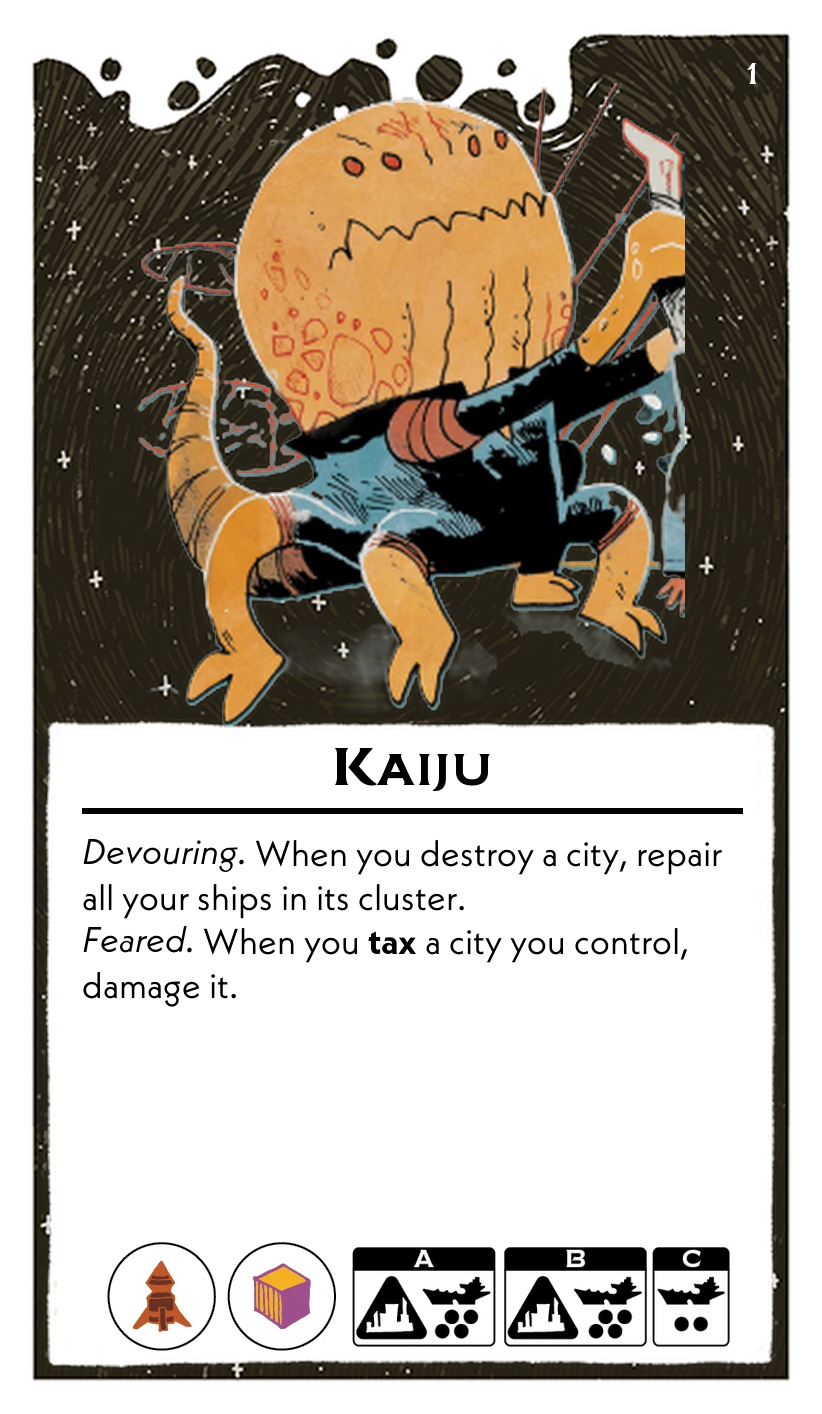
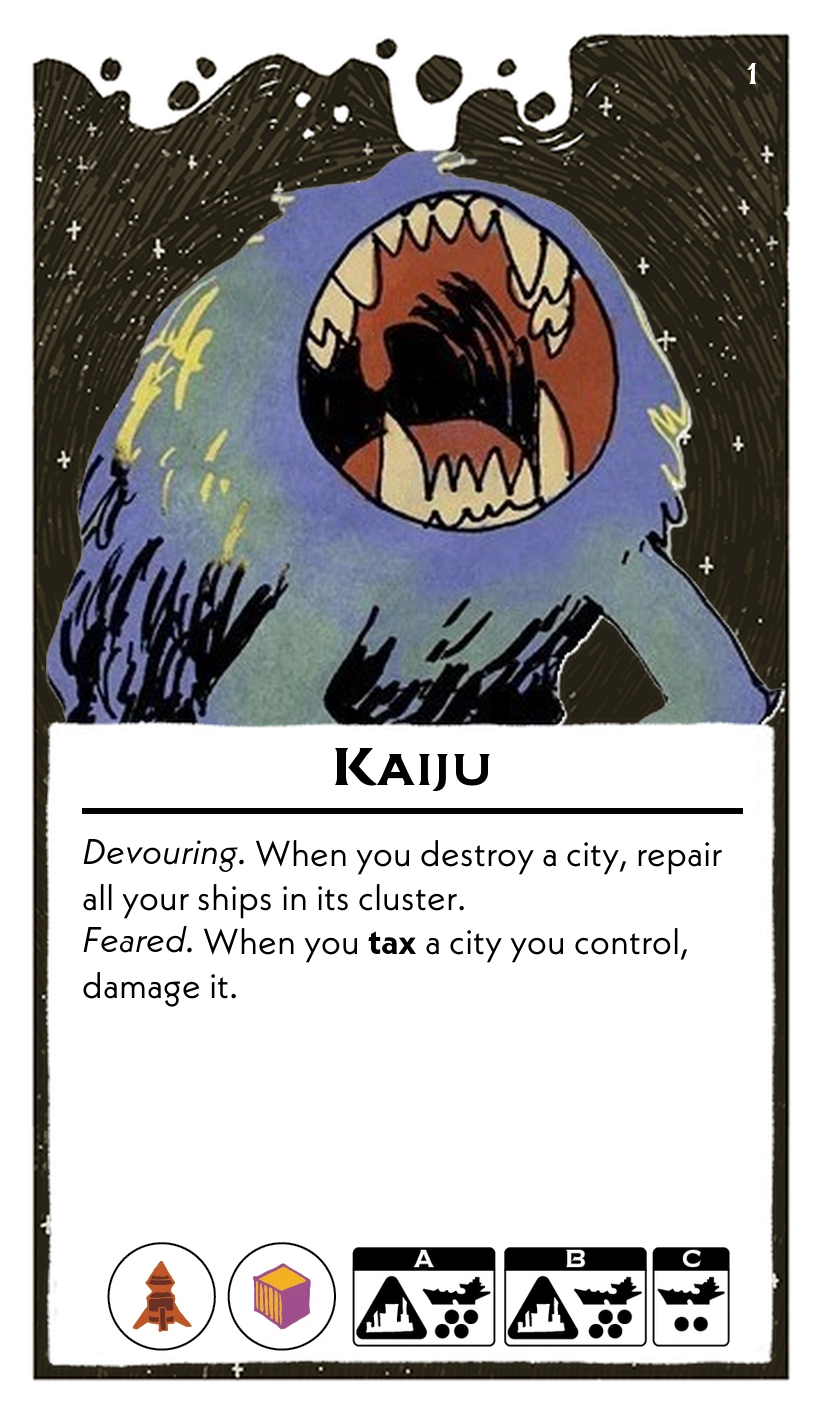
kaiju

Changed region(s): [[0.0608, 0.0622, 0.9732, 0.529]]

diff --git a/scripts/leadersFormatted.py b/scripts/leadersFormatted.py
@@ -12,7 +12,9 @@ leaders = [
             "B": {"ships": 4, "building": "city"},
             "C": {"ships": 2, "building": "None"}
         },
-        "body_font_size": 18
+        "body_font_size": 18,
+        "zoom": 1.15,
+        "boundary_shift": 0.12
     },
     # Shapeshifter
     {
